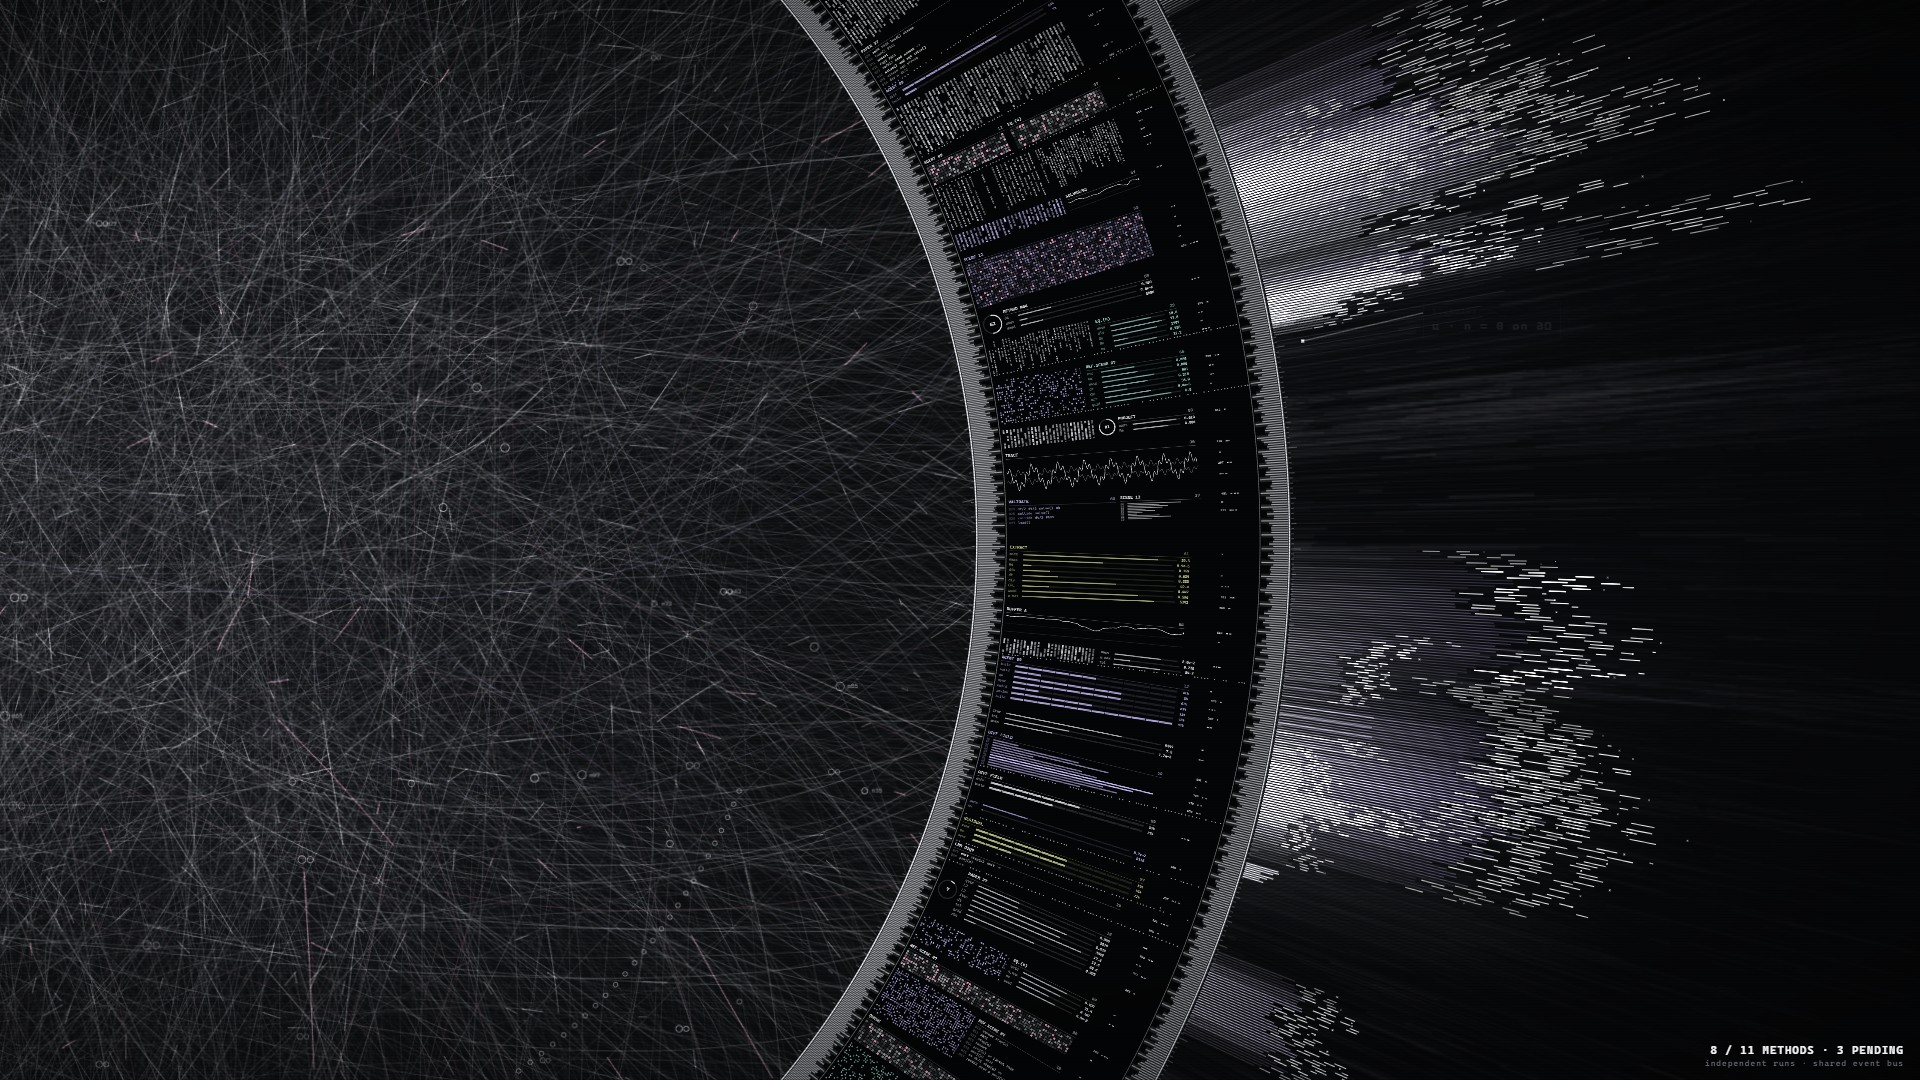
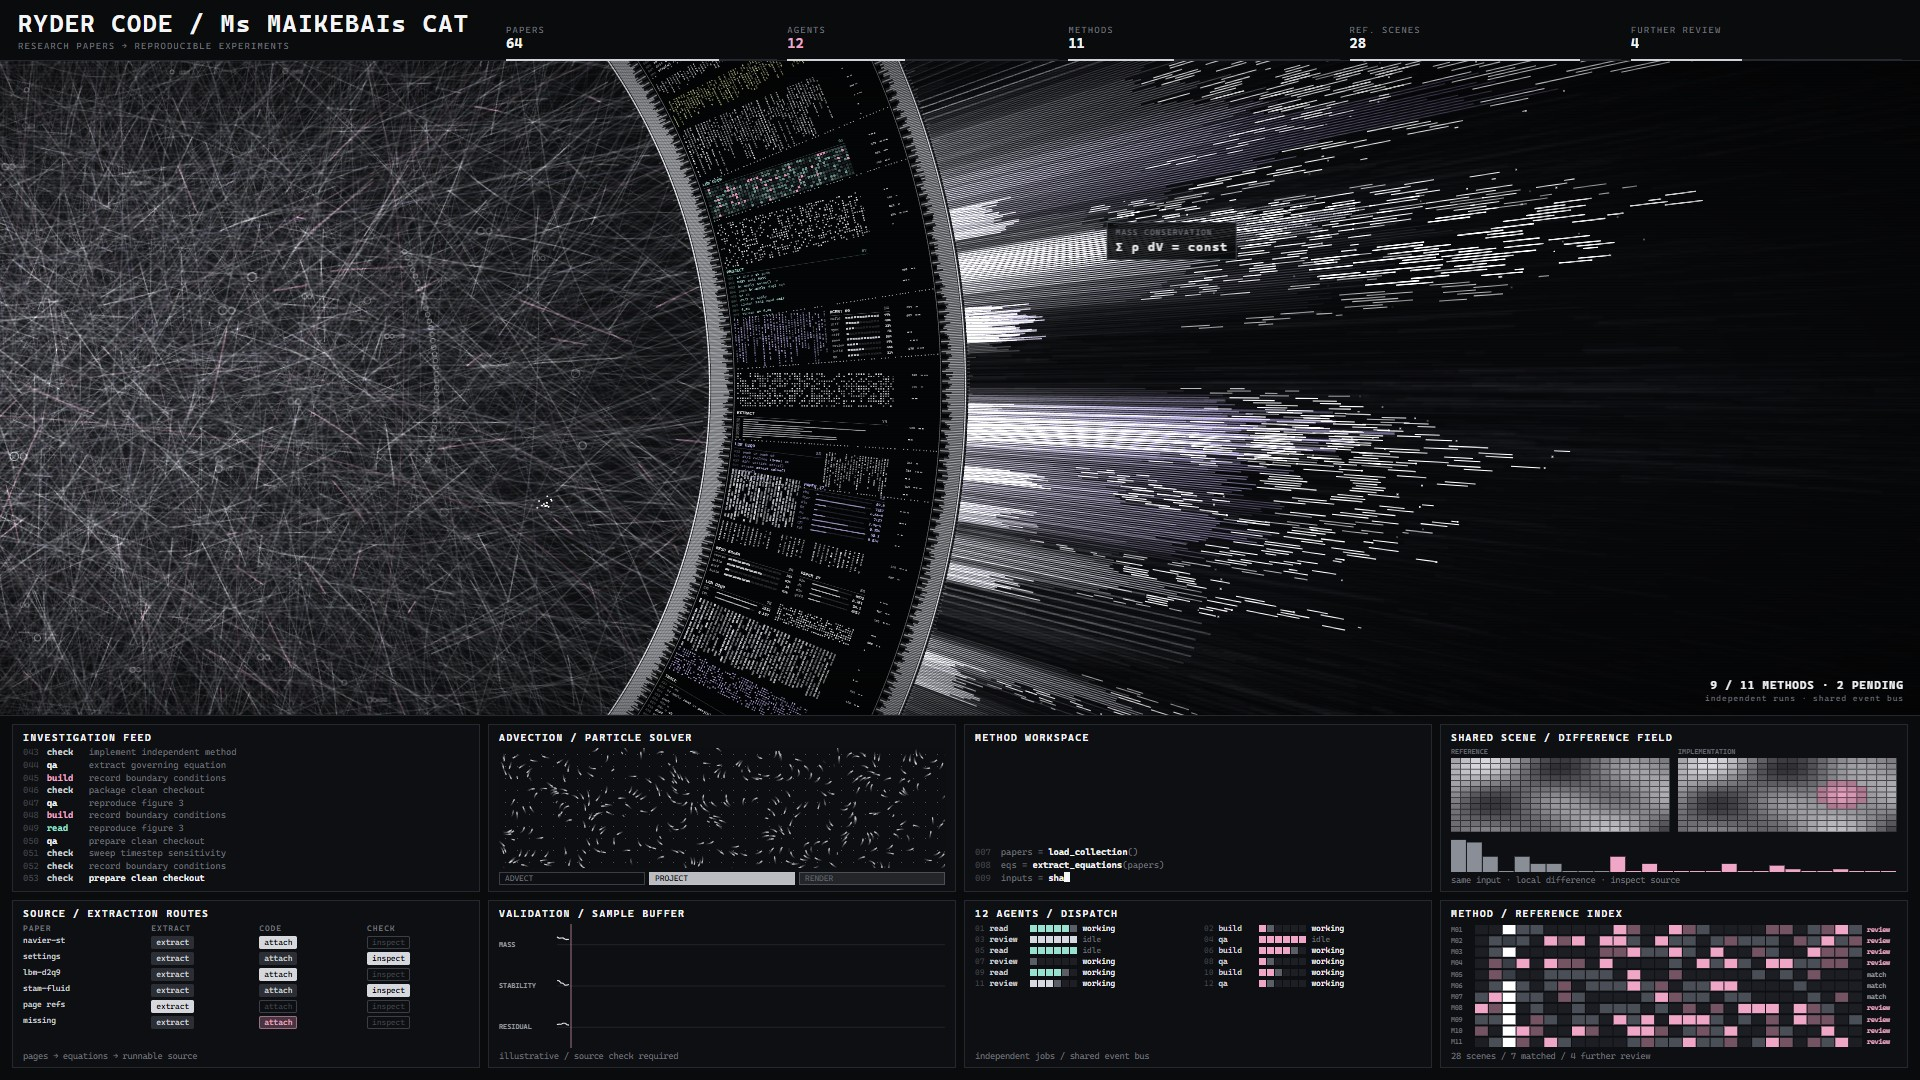
Wallpaper: show header and bottom panels by default; new preview

diff --git a/wallpaper/wp.js b/wallpaper/wp.js
@@ -16,7 +16,7 @@
     beamGlow: 2.6,
     camera: true,
     camZoom: 1,
-    showui: false,
+    showui: true,
     scanlines: true,
     music: true,
     volume: 55
